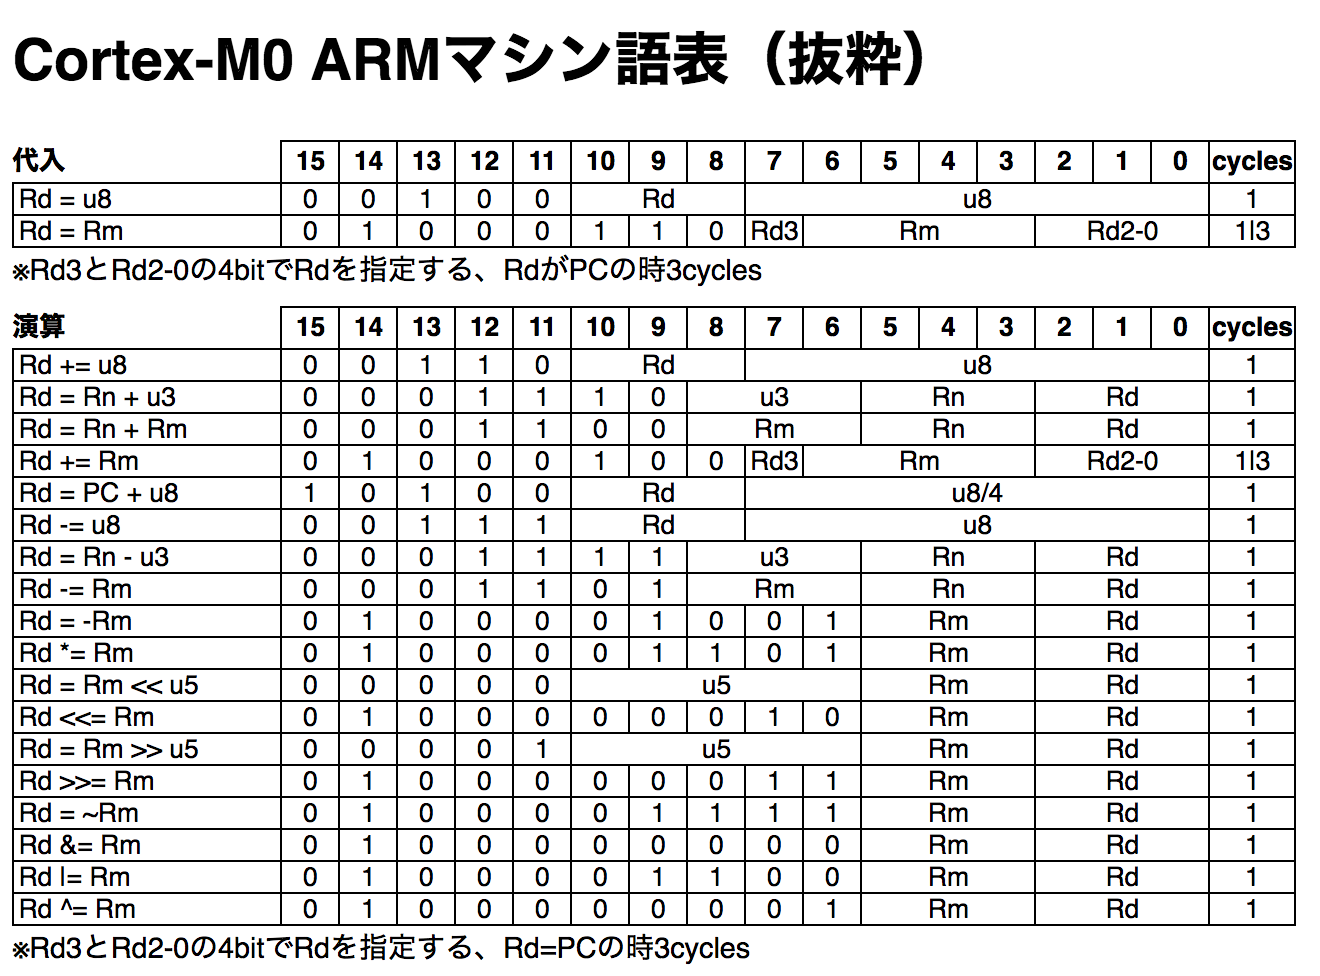
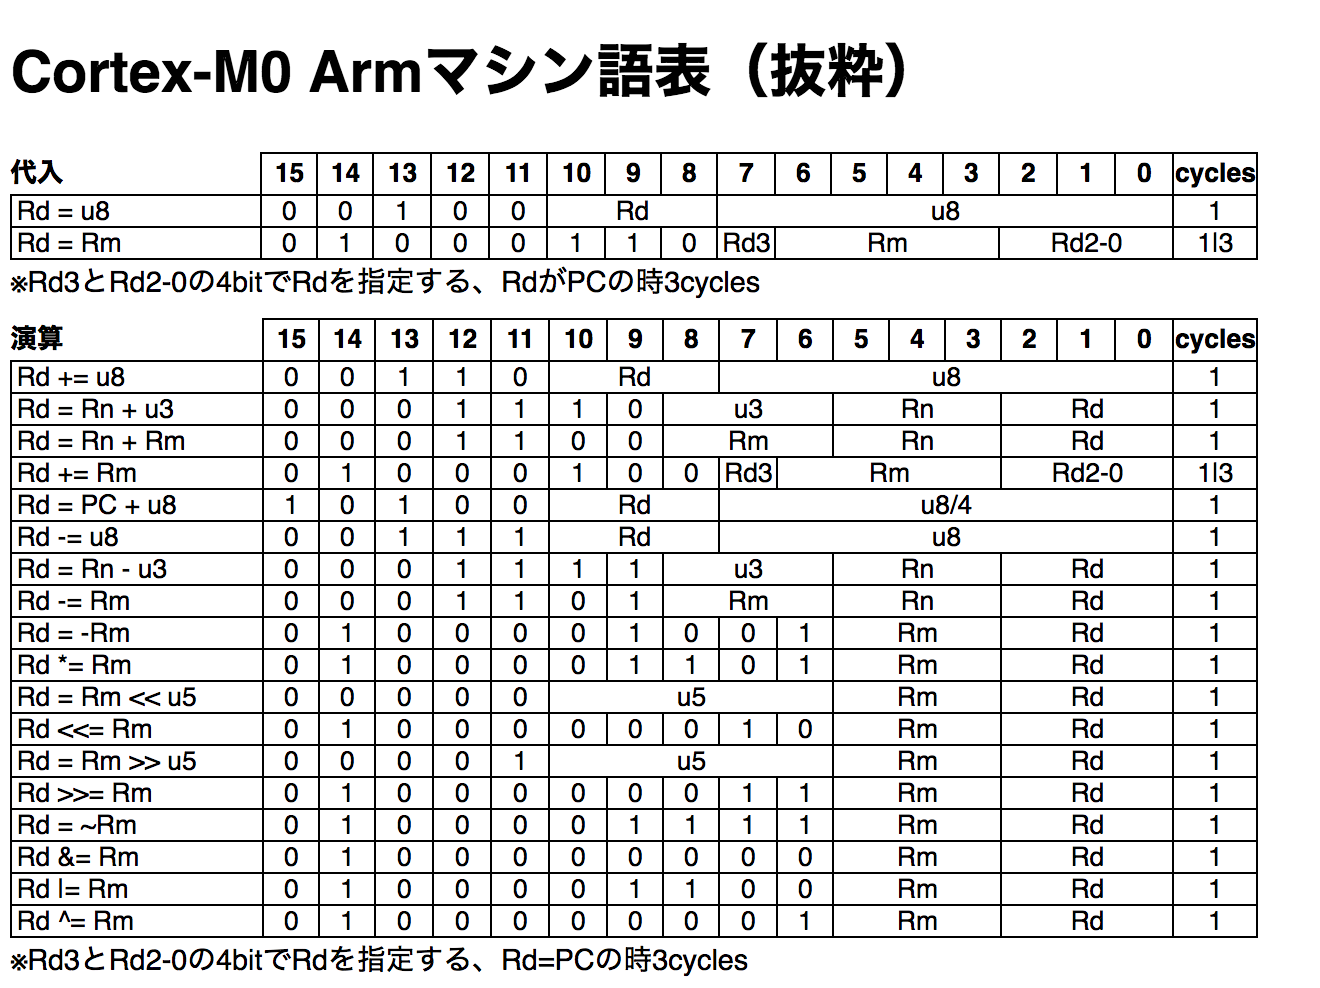
ARM -> Arm

Changed region(s): [[0.0, 0.1537, 0.9939, 0.9836], [0.0, 0.0307, 0.7144, 0.123]]

diff --git a/armasm.html b/armasm.html
@@ -1,5 +1,5 @@
 <!DOCTYPE html><html><head><meta charset="utf-8">
-<title>Cortex-M0 ARMマシン語表（抜粋）</title>
+<title>Cortex-M0 Armマシン語表（抜粋）</title>
 <meta property="og:image" content="armasm.png">
 <link rel="apple-touch-icon" href="armasm.png"/>
 <script src=lib/maketable2.js></script>
@@ -40,7 +40,7 @@ a {
 </style>
 </head><body>
 
-<h1>Cortex-M0 ARMマシン語表（抜粋）</h1>
+<h1>Cortex-M0 Armマシン語表（抜粋）</h1>
 
 <table id="t1188a" class=tarmasm></table>
 <script>
@@ -230,7 +230,7 @@ todo
 <a href=index.html>asm15</a> - Assembler for IchigoJam<br>
 <a href=cpuemu.html>cpuemu15</a> - IchigoJam マシン語エミュレーター alpha1 (<a href="http://fukuno.jig.jp/1328">説明</a>)<br>
 </p><p>
-- 連載、IchigoJamではじめる、ARMマシン語入門<br>
+- 連載、IchigoJamではじめる、Armマシン語入門<br>
 <a href=http://fukuno.jig.jp/1184>1. はじめてのマシン語</a><br>
 <a href=http://fukuno.jig.jp/1186>2. ハンドアセンブルで超速計算！</a><br>
 <a href=http://fukuno.jig.jp/1188>3. マシン語メモリアクセスで画面超速表示！</a><br>
@@ -241,6 +241,7 @@ todo
 <a href=http://fukuno.jig.jp/1757>8. アセンブラを使って楽しよう</a><br>
 <a href=http://fukuno.jig.jp/1849>9. マシン語で高速SPI</a><br>
 <a href=http://fukuno.jig.jp/1872>10. マシン語を制するもの時間を制す</a><br>
+<a href=http://fukuno.jig.jp/1889>11. 画面をイチゴで埋め尽くす12の方法</a><br>
 <!--
 クロックを意識して特殊演算
 	4byte rotate
@@ -250,7 +251,7 @@ todo
 -->
 
 </p><p>
-DATA: <a href=https://www.arm.com/ja/products/processors/cortex-m/cortex-m0.php>Cortex-M0プロセッサ - ARM</a> (<a href=http://infocenter.arm.com/help/index.jsp?topic=/com.arm.doc.ddi0432c/CHDCICDF.html>cycles</a>)<br>
+DATA: <a href=https://www.arm.com/ja/products/processors/cortex-m/cortex-m0.php>Cortex-M0プロセッサ - Arm</a> (<a href=http://infocenter.arm.com/help/index.jsp?topic=/com.arm.doc.ddi0432c/CHDCICDF.html>cycles</a>)<br>
 Text: CC BY <a href=http://ichigojam.net/>ichigojam.net</a><br>
 
 </body></html>

diff --git a/asm15.js b/asm15.js
@@ -292,11 +292,14 @@ var cmdlist = [
 ["wfi",0xbf30],
 ["nop",0],
 
+//["reg = ror ( reg , reg )",0x41c0,b(3,0),b(3,0),b(3,3)],
+//["ror ( reg , reg )",0x41c0,b(3,0),b(3,3)],
+//["reg >>> = reg",0x41c0,b(3,0),b(3,3)], // NG
+
 /*
 ["bic ( reg , reg )",0x4380,b(3,0),b(3,3)],
 ["reg = asr ( reg , n )",0x1000,b(3,0),b(3,3),b(5,6,0)],
 ["asr ( reg , reg )",0x4100,b(3,0),b(3,3)],
-["ror ( reg , reg )",0x41c0,b(3,0),b(3,3)],
 ["reg = rev ( reg )",0xba00,b(3,0),b(3,3)],
 //["reg = rev16 ( reg )",0xba40,b(3,0),b(3,3)],
 //["reg = revSH ( reg )",0xbac0,b(3,0),b(3,3)],
